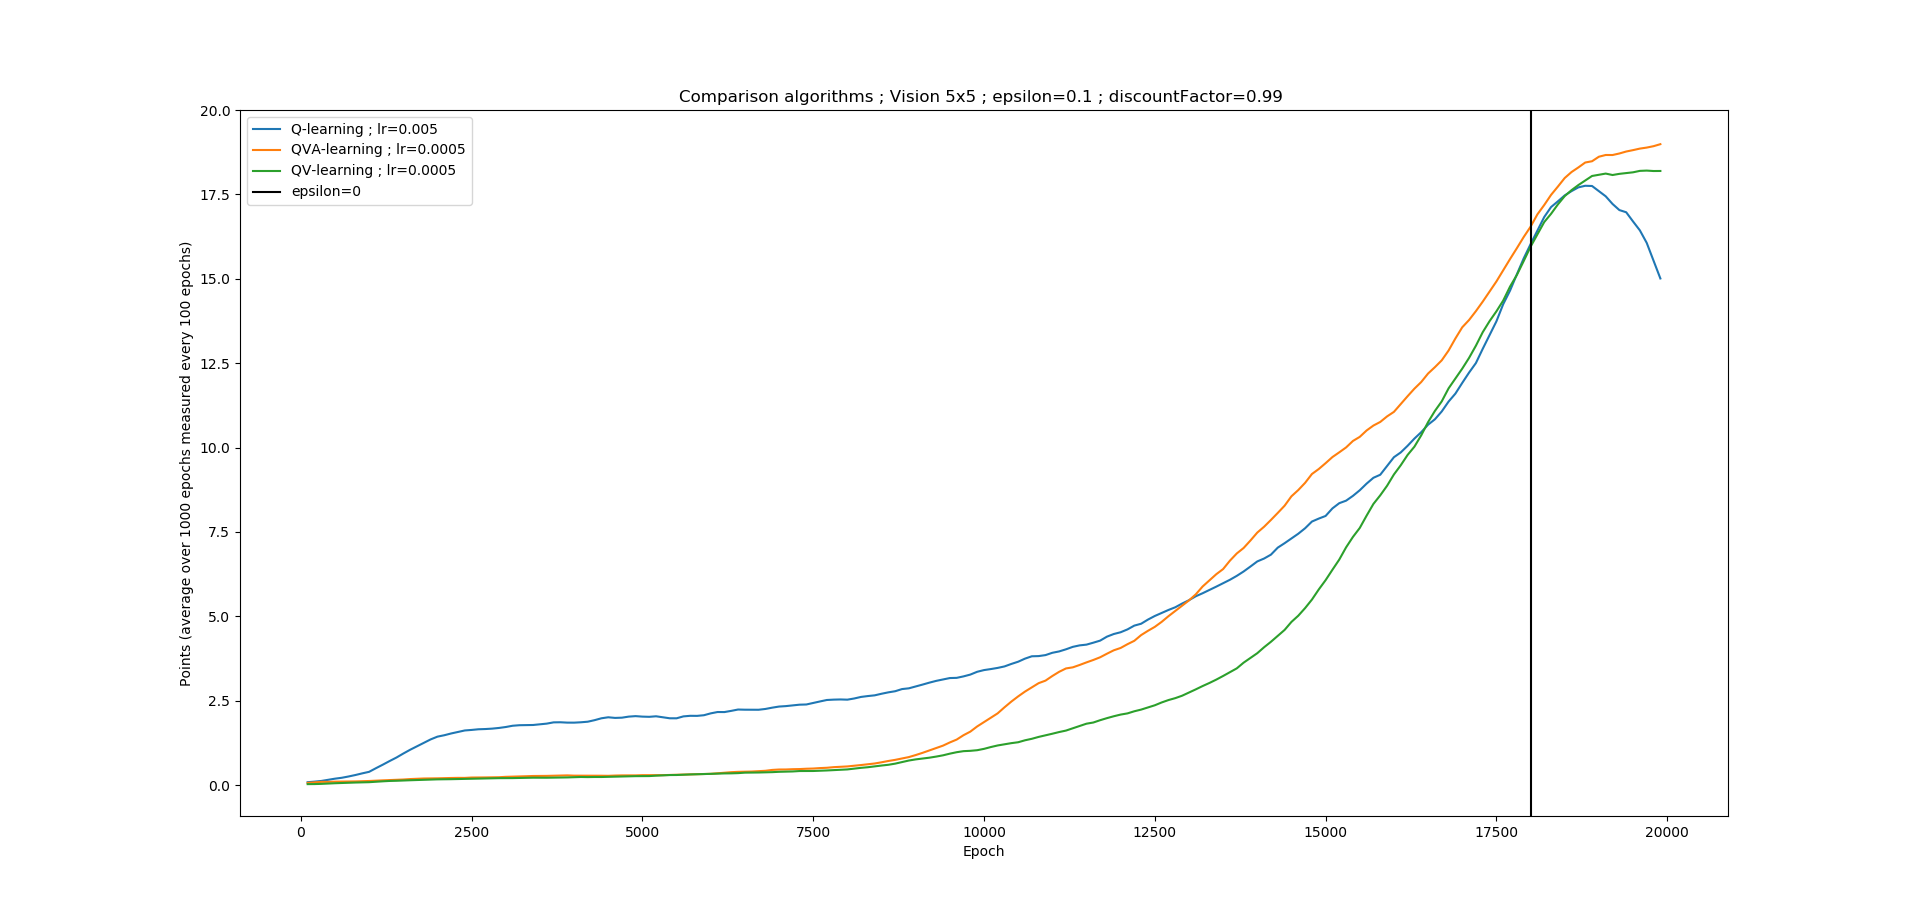
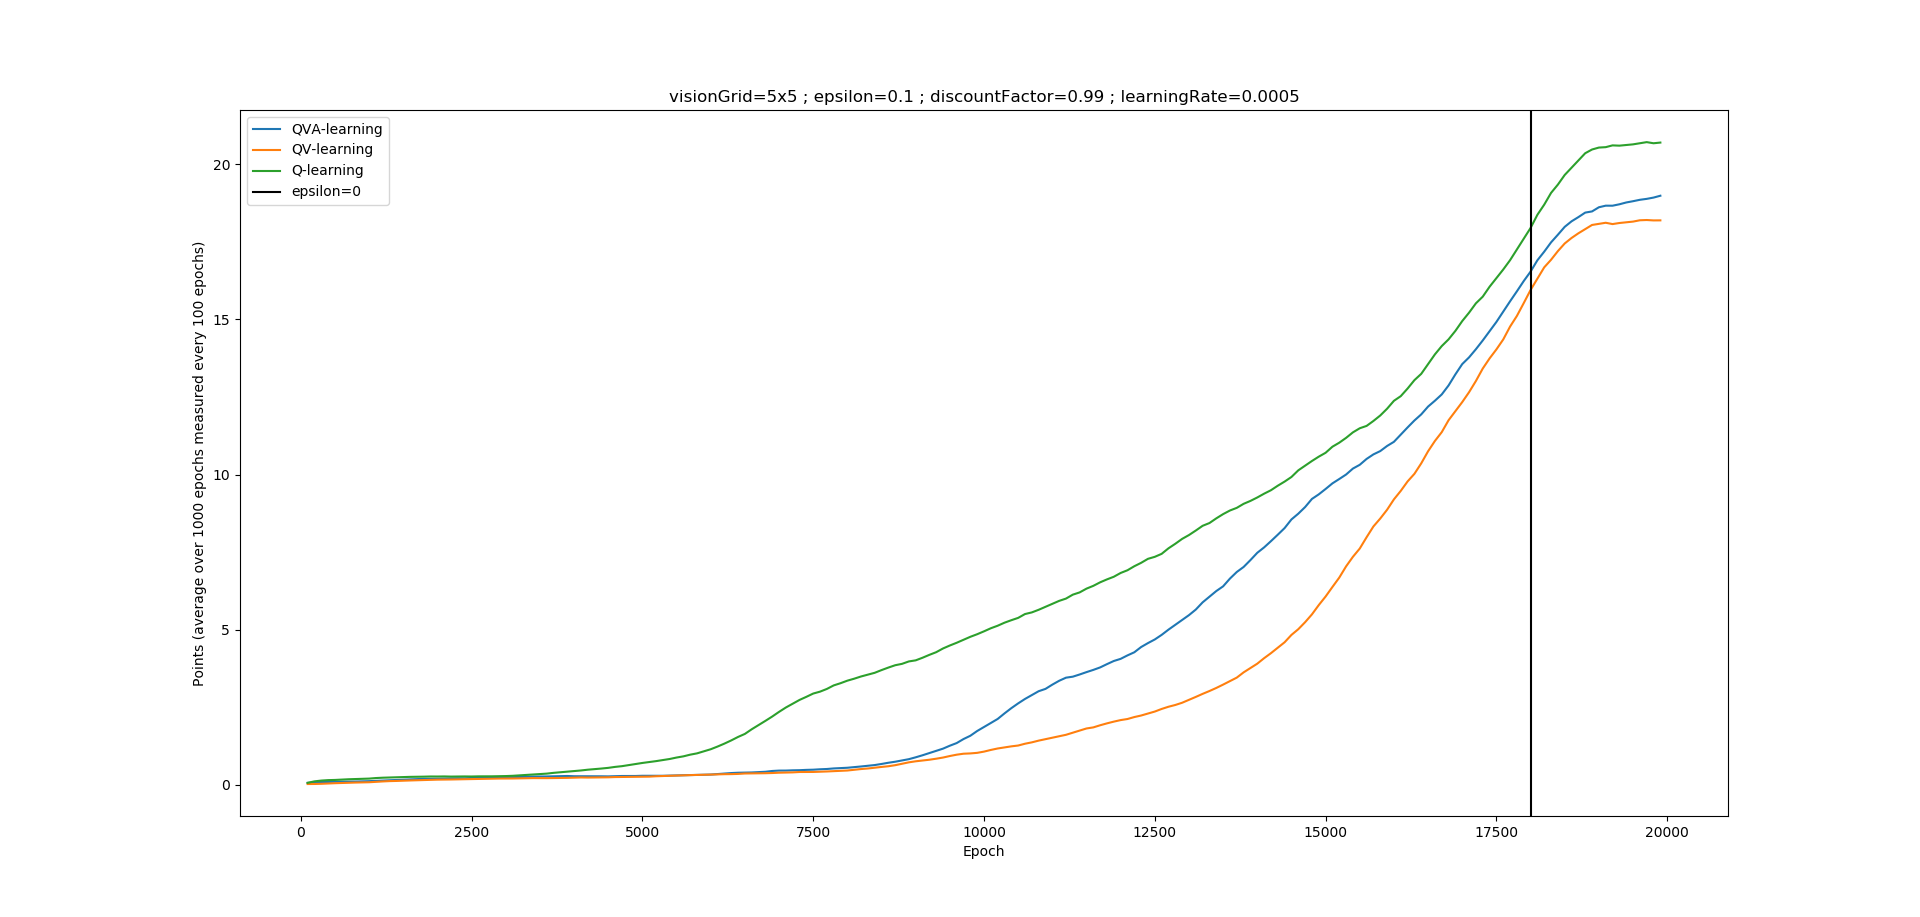
annealing learning rate

diff --git a/reinforcementLearning_snake/learning/algorithms.py b/reinforcementLearning_snake/learning/algorithms.py
@@ -2,9 +2,9 @@ import numpy as np
 from snakeGame import util, game
 # from snakeGame import visual_game
 import parameters as param
+from keras.callbacks import LearningRateScheduler
 import stats
 
-epoch = 0
 game_state = game.Game()
 state = game_state.get_state()
 
@@ -13,9 +13,10 @@ got_stuck = 0
 v_value = 0 #to speed up qv(a)-learning
 q_values = np.zeros((1,4)) #to speed up qvmax-learniing
 
+callback = [LearningRateScheduler(util.annealing_learningrate)]
+
 tmp = True
-def q_learning(timestep, model):
-    global epoch 
+def q_learning(timestep, model): 
     global game_state
     global state 
     global got_stuck
@@ -23,10 +24,11 @@ def q_learning(timestep, model):
     #toggle for visualisation 
     # visual_game.visualize(game_state)
     
-    if (epoch == 0): 
+    if (param.epoch == 0): 
         state = game_state.get_state()
-        epoch += 1
-
+        param.epoch += 1
+    
+    print(param.epoch)
     qValues = model.mlp.predict(state.reshape(1,2 * param.vision_size**2 + 2), batch_size=1)
     
     action = util.epsilon_greedy_action_selection(qValues)
@@ -42,7 +44,8 @@ def q_learning(timestep, model):
     
     target_output = qValues 
     target_output[0][action] = update
-    model.mlp.fit(state.reshape(1,2 * param.vision_size**2 + 2),target_output,batch_size=1,verbose=0)
+    
+    model.mlp.fit(state.reshape(1,2 * param.vision_size**2 + 2),target_output,batch_size=1, epochs=1, callbacks=callback, verbose=0)
     state = new_state
     
     if game_state.time_stuck > param.game_size**2:
@@ -50,18 +53,17 @@ def q_learning(timestep, model):
         on_death()
     
     #toggle for visualisation 
-    # if epoch >= param.max_epochs:
+    # if param.epoch >= param.max_epochs:
         # visual_game.end_visualization()
     
 def qv_learning(timestep, q_model, v_model):
     global state
-    global epoch
     global game_state
     global got_stuck
     
-    if (epoch == 0): 
+    if (param.epoch == 0): 
         state = game_state.get_state()
-        epoch += 1
+        param.epoch += 1
     
     q_values = q_model.mlp.predict(state.reshape(1,2 * param.vision_size**2 + 2), batch_size=1)
     action = util.epsilon_greedy_action_selection(q_values)
@@ -77,8 +79,8 @@ def qv_learning(timestep, q_model, v_model):
     target_output = q_values
     target_output[0][action] = update 
 
-    v_model.mlp.fit(state.reshape(1,2 * param.vision_size**2 + 2), update, batch_size=1,verbose=0)
-    q_model.mlp.fit(state.reshape(1,2 * param.vision_size**2 + 2), target_output, batch_size=1, verbose=0)
+    v_model.mlp.fit(state.reshape(1,2 * param.vision_size**2 + 2), update, batch_size=1, epochs=1, callbacks=callback, verbose=0)
+    q_model.mlp.fit(state.reshape(1,2 * param.vision_size**2 + 2), target_output, batch_size=1, epochs=1, callbacks=callback, verbose=0)
     state = new_state
     
     if game_state.time_stuck > param.game_size**2:
@@ -87,14 +89,13 @@ def qv_learning(timestep, q_model, v_model):
 
 def qva_learning(timestep, q_model, v_model, a_model):
     global state
-    global epoch
     global game_state
     global got_stuck
     # global v_value
     
-    if (epoch == 0): 
+    if (param.epoch == 0): 
         state = game_state.get_state()
-        epoch += 1
+        param.epoch += 1
         
     v_value = v_model.mlp.predict(state.reshape(1,2 * param.vision_size**2 + 2), batch_size=1)
     q_values = q_model.mlp.predict(state.reshape(1,2 * param.vision_size**2 + 2), batch_size=1)
@@ -114,9 +115,9 @@ def qva_learning(timestep, q_model, v_model, a_model):
     q_target[0][action] = update 
     a_target = q_values - v_value
         
-    v_model.mlp.fit(state.reshape(1,2 * param.vision_size**2 + 2), update, batch_size=1,verbose=0)
-    q_model.mlp.fit(state.reshape(1,2 * param.vision_size**2 + 2), q_target, batch_size=1, verbose=0)
-    a_model.mlp.fit(state.reshape(1,2 * param.vision_size**2 + 2), a_target, batch_size=1, verbose=0)
+    v_model.mlp.fit(state.reshape(1,2 * param.vision_size**2 + 2), update, batch_size=1, epochs=1, callbacks=callback, verbose=0)
+    q_model.mlp.fit(state.reshape(1,2 * param.vision_size**2 + 2), q_target, batch_size=1, epochs=1, callbacks=callback, verbose=0)
+    a_model.mlp.fit(state.reshape(1,2 * param.vision_size**2 + 2), a_target, batch_size=1, epochs=1, callbacks=callback, verbose=0)
     
     state = new_state 
     # v_value = new_vValue
@@ -127,12 +128,11 @@ def qva_learning(timestep, q_model, v_model, a_model):
 
 def qvmax_learning(timestep, q_model, v_model):
     global state
-    global epoch
     global game_state
     global got_stuck
     global q_values
     
-    if epoch == 0:
+    if param.epoch == 0:
         q_values = q_model.mlp.predict(state.reshape(1,2 * param.vision_size**2 + 2), batch_size=1)
     action = util.epsilon_greedy_action_selection(q_values)
     
@@ -150,8 +150,8 @@ def qvmax_learning(timestep, q_model, v_model):
     target_output = q_values
     target_output[0][action] = q_update 
 
-    v_model.mlp.fit(state.reshape(1,2 * param.vision_size**2 + 2), v_update, batch_size=1,verbose=0)
-    q_model.mlp.fit(state.reshape(1,2 * param.vision_size**2 + 2), target_output, batch_size=1, verbose=0)
+    v_model.mlp.fit(state.reshape(1,2 * param.vision_size**2 + 2), v_update, batch_size=1, epochs=1, callbacks=callback, verbose=0)
+    q_model.mlp.fit(state.reshape(1,2 * param.vision_size**2 + 2), target_output, batch_size=1, epochs=1, callbacks=callback, verbose=0)
     state = new_state
     q_values = new_qValues
     
@@ -162,13 +162,12 @@ def qvmax_learning(timestep, q_model, v_model):
 
 def qvamax_learning(timestep, q_model, v_model, a_model):
     global state
-    global epoch
     global game_state
     global got_stuck
     global v_value
     global q_values
     
-    if epoch == 0: 
+    if param.epoch == 0: 
         v_value = v_model.mlp.predict(state.reshape(1,2 * param.vision_size**2 + 2), batch_size=1)
         q_values = q_model.mlp.predict(state.reshape(1,2 * param.vision_size**2 + 2), batch_size=1)
     a_values = a_model.mlp.predict(state.reshape(1,2 * param.vision_size**2 + 2), batch_size=1)
@@ -190,9 +189,9 @@ def qvamax_learning(timestep, q_model, v_model, a_model):
     q_target[0][action] = q_update 
     a_target = q_values - v_value
         
-    v_model.mlp.fit(state.reshape(1,2 * param.vision_size**2 + 2), v_update, batch_size=1,verbose=0)
-    q_model.mlp.fit(state.reshape(1,2 * param.vision_size**2 + 2), q_target, batch_size=1, verbose=0)
-    a_model.mlp.fit(state.reshape(1,2 * param.vision_size**2 + 2), a_target, batch_size=1, verbose=0)
+    v_model.mlp.fit(state.reshape(1,2 * param.vision_size**2 + 2), v_update, batch_size=1, epochs=1, callbacks=callback, verbose=0)
+    q_model.mlp.fit(state.reshape(1,2 * param.vision_size**2 + 2), q_target, batch_size=1, epochs=1, callbacks=callback, verbose=0)
+    a_model.mlp.fit(state.reshape(1,2 * param.vision_size**2 + 2), a_target, batch_size=1, epochs=1, callbacks=callback, verbose=0)
     
     state = new_state 
     v_value = new_vValue
@@ -215,7 +214,7 @@ def qvamax_learning(timestep, q_model, v_model, a_model):
 #     if reward == param.reward_dead: 
 #         on_death()
         
-#     if epoch > numGames:
+#     if param.epoch > numGames:
 #         visual_game.end_visualization()
 
 #     if game_state.time_stuck > param.game_size**2:
@@ -228,14 +227,14 @@ def qvamax_learning(timestep, q_model, v_model, a_model):
     
 #     visual_game.visualize(game_state,action)
 
-def on_death():
-    global epoch 
+def on_death(): 
     global game_state
     global got_stuck
+    global callback 
     
-    stats.add_points(epoch, game_state.points)
+    stats.add_points(param.epoch, game_state.points)
     
-    if epoch % 100 == 0:
+    if param.epoch % 100 == 0:
         # print("Got stuck ", got_stuck, " times")
         got_stuck = 0
     
@@ -243,20 +242,19 @@ def on_death():
     if param.epsilon > param.final_epsilon:
         param.epsilon -= (param.start_epsilon/(param.max_epochs-2000))
     elif tmp: 
-        print("NO LONGER DECREASING EPSILON: ", epoch, "e =", param.epsilon) 
+        print("NO LONGER DECREASING EPSILON: ", param.epoch, "e =", param.epsilon) 
         tmp = False
-    epoch += 1
+    param.epoch += 1
     game_state = game.Game()
-    # visual_game.reset(epoch)
+    # visual_game.reset(param.epoch)
 
-# def random_actions(timestep):
-#     global epoch 
+# def random_actions(timestep): 
 #     global game_state
 #     #initialize game
-#     if epoch == 0:
+#     if param.epoch == 0:
 #         print("start game")
-#         epoch += 1
-#     if epoch >= param.max_epochs:
+#         param.epoch += 1
+#     if param.epoch >= param.max_epochs:
 #         visual_game.end_visualization()
 #         # game_state = game.Game()
 #     action = random.choice(util.actions)
@@ -264,18 +262,17 @@ def on_death():
 #     game_state.display_game() 
 #     state, reward = game_state.make_move(action)
 #     if reward == param.reward_dead:
-#         epoch += 1
-#         visual_game.reset(epoch)
+#         param.epoch += 1
+#         visual_game.reset(param.epoch)
 #         game_state = game.Game()
     
-# def manual(timestep):
-#     global epoch 
+# def manual(timestep): 
 #     global game_state
 #     #initialize game
-#     if epoch == 0:
+#     if param.epoch == 0:
 #         print("start game")
-#         epoch += 1
-#     if epoch >= param.max_epochs:
+#         param.epoch += 1
+#     if param.epoch >= param.max_epochs:
 #         visual_game.end_visualization()
 #         # game_state = game.Game()
 #     key = input()
@@ -294,6 +291,6 @@ def on_death():
 #     # game_state.display_game() 
 #     state, reward = game_state.make_move(action)
 #     if reward == param.reward_dead:
-#         epoch += 1
-#         visual_game.reset(epoch)
+#         param.epoch += 1
+#         visual_game.reset(param.epoch)
 #         game_state = game.Game()

diff --git a/reinforcementLearning_snake/main.py b/reinforcementLearning_snake/main.py
@@ -15,21 +15,21 @@ if __name__ == '__main__':
         # performed as often as possible 
         # visual_game.pyglet.clock.schedule(algorithms.q_learning)
         model = neuralNetwork.NeuralNetwork(100,4, param.learning_rate_q)
-        while algorithms.epoch < param.max_epochs:
+        while param.epoch < param.max_epochs:
             algorithms.q_learning(1,model)
         util.save_model(model)
 
     elif param.algorithm == 'qv-learning':
         vmodel = neuralNetwork.NeuralNetwork(100,1, param.learning_rate_v)
         qmodel = neuralNetwork.NeuralNetwork(100,4, param.learning_rate_q)
-        while algorithms.epoch < param.max_epochs:
+        while param.epoch < param.max_epochs:
             algorithms.qv_learning(1,qmodel,vmodel)
         util.save_model(qmodel)
     
     elif param.algorithm == 'qvmax-learning':
         vmodel = neuralNetwork.NeuralNetwork(100,1, param.learning_rate_v)
         qmodel = neuralNetwork.NeuralNetwork(100,4, param.learning_rate_q)
-        while algorithms.epoch < param.max_epochs:
+        while param.epoch < param.max_epochs:
             algorithms.qvmax_learning(1,qmodel,vmodel)
         util.save_model(qmodel)
         
@@ -37,7 +37,7 @@ if __name__ == '__main__':
         qmodel = neuralNetwork.NeuralNetwork(100,4, param.learning_rate_q)
         vmodel = neuralNetwork.NeuralNetwork(100,1, param.learning_rate_v)
         amodel = neuralNetwork.NeuralNetwork(100,4, param.learning_rate_a)
-        while algorithms.epoch < param.max_epochs:
+        while param.epoch < param.max_epochs:
             algorithms.qva_learning(1,qmodel,vmodel,amodel)
         util.save_model(amodel)
     
@@ -45,7 +45,7 @@ if __name__ == '__main__':
         qmodel = neuralNetwork.NeuralNetwork(100,4, param.learning_rate_q)
         vmodel = neuralNetwork.NeuralNetwork(100,1, param.learning_rate_v)
         amodel = neuralNetwork.NeuralNetwork(100,4, param.learning_rate_a)
-        while algorithms.epoch < param.max_epochs:
+        while param.epoch < param.max_epochs:
             algorithms.qvamax_learning(1,qmodel,vmodel,amodel)
         util.save_model(amodel)
 

diff --git a/reinforcementLearning_snake/snakeGame/util.py b/reinforcementLearning_snake/snakeGame/util.py
@@ -18,12 +18,16 @@ def epsilon_greedy_action_selection(values):
     else: 
         return np.argmax(values) #choose best action 
 
+#a scheduler needs to accept these parameters but we're not using them
+def annealing_learningrate(e,lr): 
+    # print("learning rate:", param.lr_annealing_factor**param.epoch * param.lr_start, e )
+    return param.lr_annealing_factor**param.epoch * param.lr_start
+
 def save_model(model):
     filepath = ("outputs/" + param.algorithm + str(param.max_epochs) + 
                 "-v" + str(param.vision_size) +
                 "-e" + str(param.start_epsilon) + "-y" + str(param.discount_factor) + 
-                "-lq" + str(param.learning_rate_q) + "-lv" + str(param.learning_rate_v) +
-                "-la" + str(param.learning_rate_a))
+                "-lr" + str(param.lr_start) + "-lr" + str(param.lr_end))
     # model.mlp.save(filepath)
     print("model saved as ", filepath)
     filepath += ".txt"
@@ -39,9 +43,9 @@ def usage():
     print(" -y --discountFactor: value between 0-1")
     print(" -v --visionSize: size of vision grid")
     print(" -t --test: path to model")
-    print(" --lrQ: Learning rate Q_model. default=0.001")
-    print(" --lrV: Learning rate V_model. default=0.001")
-    print(" --lrA: Learning rate A_model. default=0.001")
+    # print(" --lrQ: Learning rate Q_model. default=0.001")
+    # print(" --lrV: Learning rate V_model. default=0.001")
+    # print(" --lrA: Learning rate A_model. default=0.001")
 
 def handle_command_line_options(argv):
     try: 
@@ -87,5 +91,5 @@ def show_parameters():
     print("Algorithm:",param.algorithm, "\nEpsilon:",param.epsilon,
           "\nVisiongrid size:",param.vision_size,
           "\nDiscount-factor:",param.discount_factor, 
-          "\nLearning-rate_q:",param.learning_rate_q, "\t Learning_rate_v:",param.learning_rate_v,
-          "\tLearning-rate-a:",param.learning_rate_a)
+          "\nLearning rate start:", param.lr_start,
+          "\nLearning rate end:", param.lr_end)

diff --git a/reinforcementLearning_snake/stats.py b/reinforcementLearning_snake/stats.py
@@ -51,7 +51,11 @@ def average_list_file(filepath):
     filepath += "_averaged"
     with open(filepath, "w") as file: 
         file.write(str(average))
-    
+
+def average_directory(directory):
+    for filename in os.listdir(directory):
+        filepath = directory + filename
+        average_list_file(filepath)
     
 def plot_directory(directory, epochs, epsilon0):
     x_axis = [i*100 for i in range(1,epochs//100)]
@@ -66,15 +70,3 @@ def plot_directory(directory, epochs, epsilon0):
     plt.legend()
     plt.show()
  
-def plot_multiple_models(filepaths_label, epochs, epsilon0):
-    x_axis = [i*100 for i in range(1,epochs//100)]
-    for key in filepaths_label: 
-        with open(key, "r") as file: 
-            model = eval(file.readline())
-        plt.plot(x_axis,model, label=filepaths_label[key] )
-  
-    plt.xlabel("Epoch")
-    plt.ylabel("Points (average over 1000 epochs measured every 100 epochs)")
-    plt.axvline(epsilon0, 0, 16, label='epsilon=0', c="BLACK")
-    plt.legend()
-    plt.show()

diff --git a/reinforcementLearning_snake/parameters.py b/reinforcementLearning_snake/parameters.py
@@ -6,13 +6,18 @@ initial_snake_length = 3
 game_size = 12
 vision_size = 5
 max_epochs = 20000
+epoch = 0
 
 start_epsilon = 0.1
 final_epsilon = 0
 epsilon = start_epsilon
 discount_factor = 0.99
-learning_rate_q = 0.001
+lr_start = 0.005
+lr_end = 0.0005 
+lr_annealing_factor = (lr_end/lr_start)**(1/float(max_epochs))
+learning_rate_q = lr_start
 learning_rate_v = learning_rate_q
 learning_rate_a = learning_rate_q
+
 
 algorithm = "" 

diff --git a/reinforcementLearning_snake/learning/neuralNetwork.py b/reinforcementLearning_snake/learning/neuralNetwork.py
@@ -23,3 +23,4 @@ class NeuralNetwork():
         #Compilation 
         rms = RMSprop(learning_rate=learning_rate)
         self.mlp.compile(optimizer=rms, loss='mse')
+    
